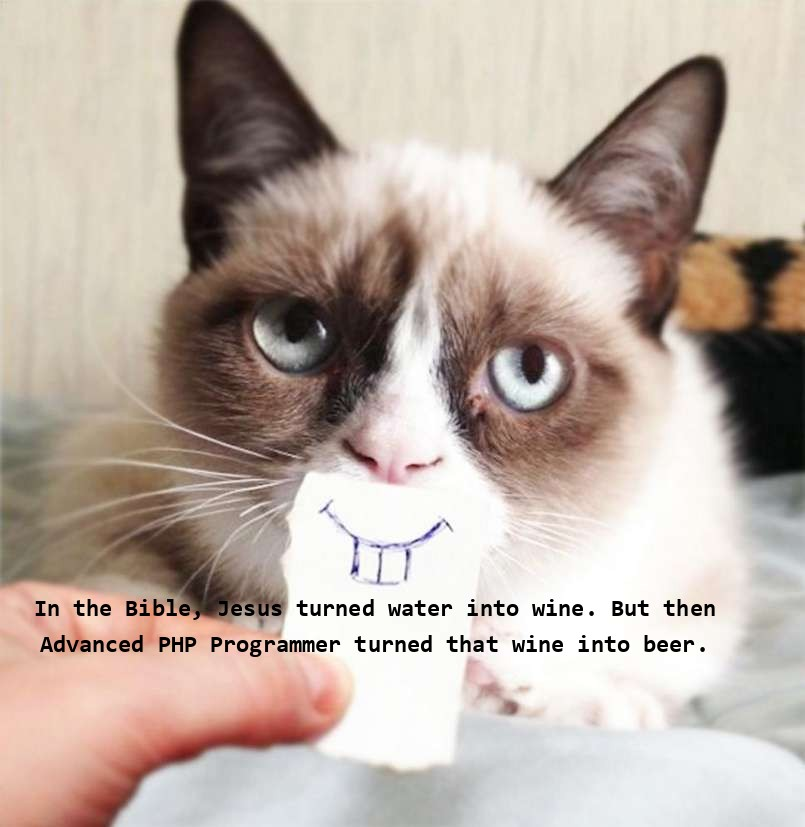
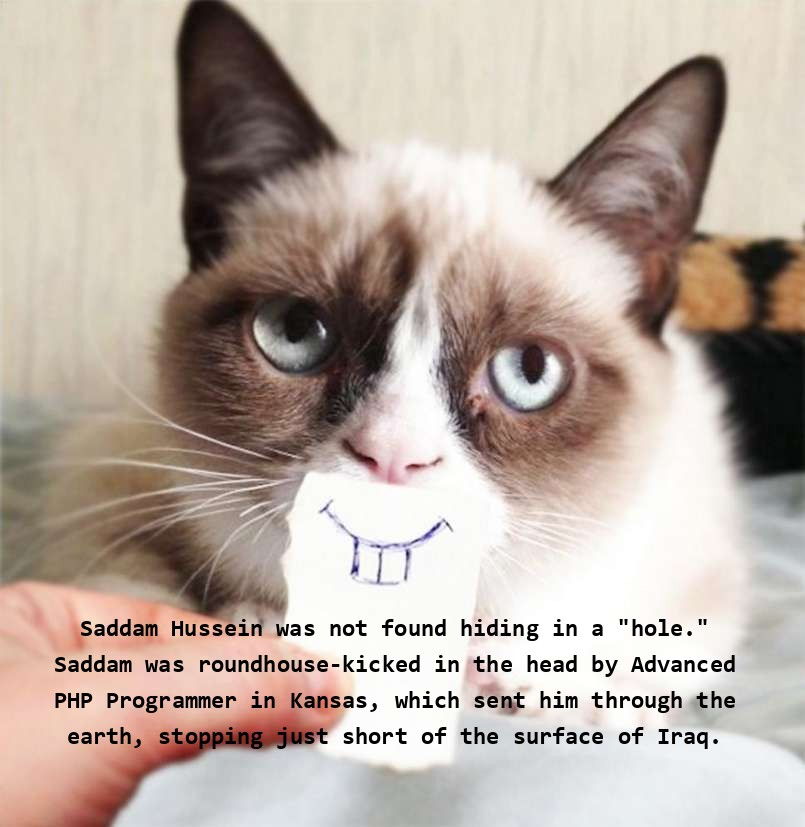
delete index.html && delete html markup from index.php

Changed region(s): [[0.0311, 0.7255, 0.9317, 0.9069]]

diff --git a/index.php b/index.php
@@ -1,6 +1,5 @@
 <?php
-//ini_set('display_errors', 1);
-//error_reporting(E_ALL);
+
 /**
  * Created by PhpStorm.
  * User: yura
@@ -8,29 +7,25 @@
  * Time: 0:45
  */
 
-require 'vendor/autoload.php';
+//ini_set('display_errors', 1);
+//error_reporting(E_ALL);
 
+
+require 'vendor/autoload.php';
 use Joker\MakeAJoke;
 
 $joker = new MakeAJoke();
 $image = new \NMC\ImageWithText\Image(dirname(__FILE__) . '/media/gr-cat.jpg');
 $text1 = new \NMC\ImageWithText\Text($joker->tellMeARandomJoke(false, "Advanced PHP", "Programmer"), 10, 45);
+
 $text1->align = 'center';
 $text1->color = 'FFFFFF';
 $text1->font = dirname(__FILE__) . '/media/consolab.ttf';
 $text1->lineHeight = 36;
 $text1->size = 18;
-$text1->startX = 80;
-$text1->startY = 580;
+$text1->startX = 100;
+$text1->startY = 600;
 $image->addText($text1);
 $image->render(dirname(__FILE__) . '/media/cat.jpg');
+echo '<img src="/media/cat.jpg">';
 ?>
-
-<html>
-<head>
-    <title>HomeWork_2</title>
-</head>
-<body>
-    <img src="/media/cat.jpg">
-</body>
-</html>
